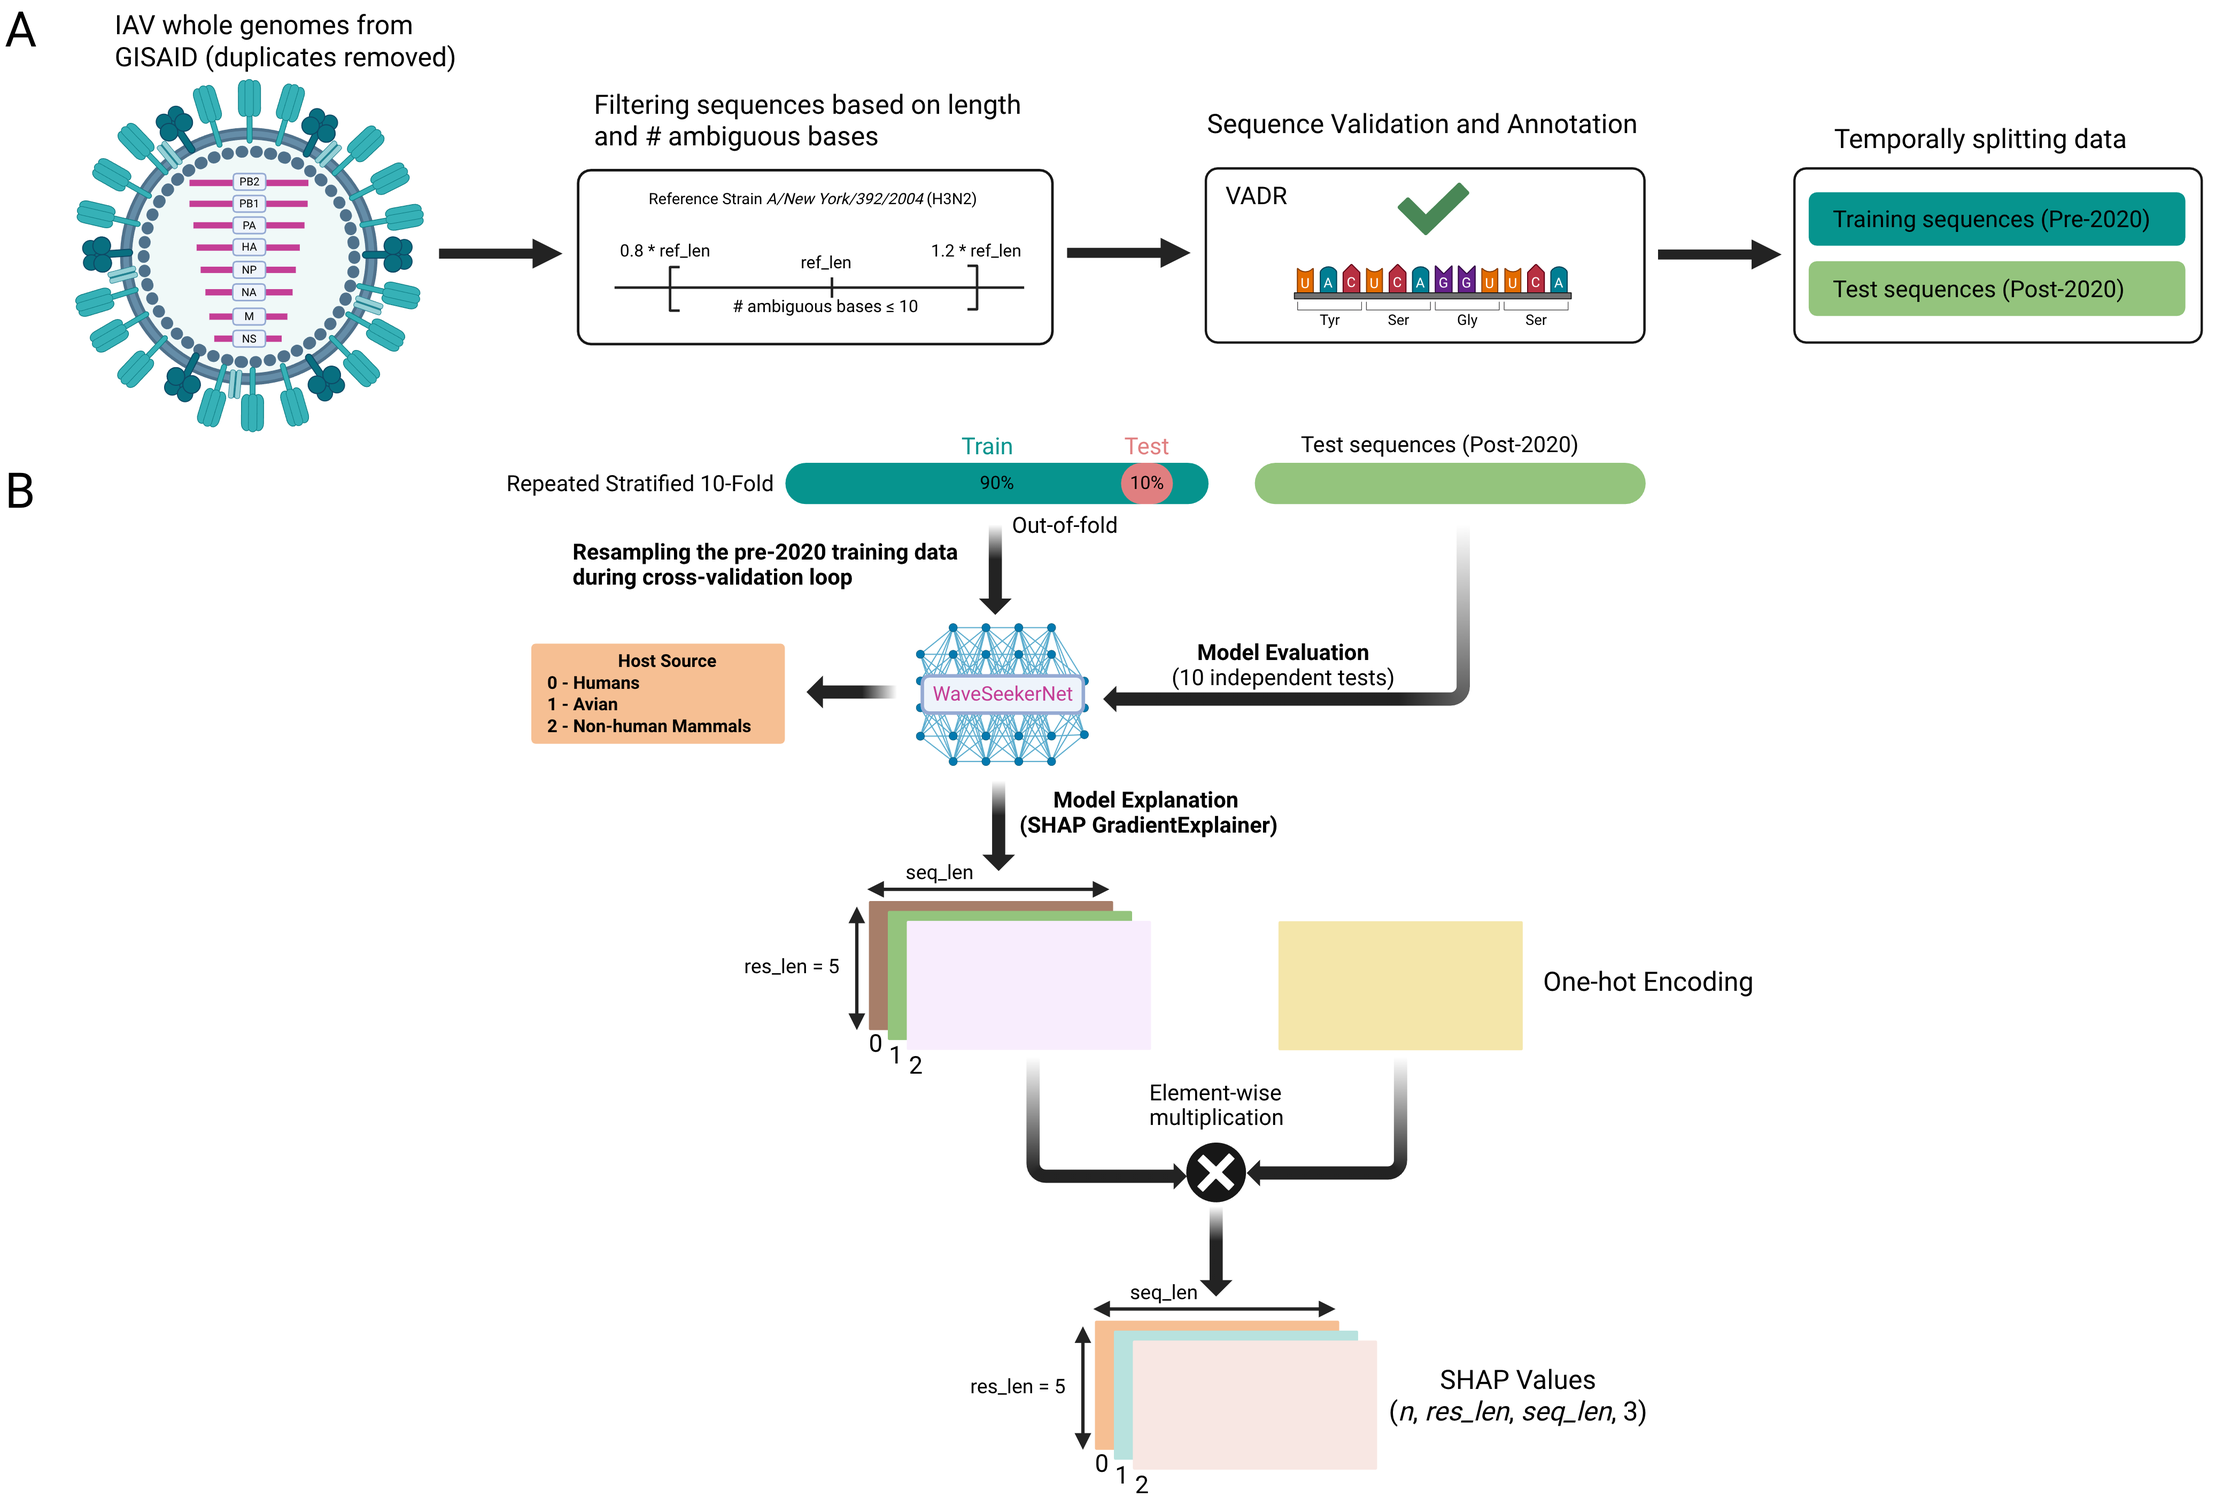
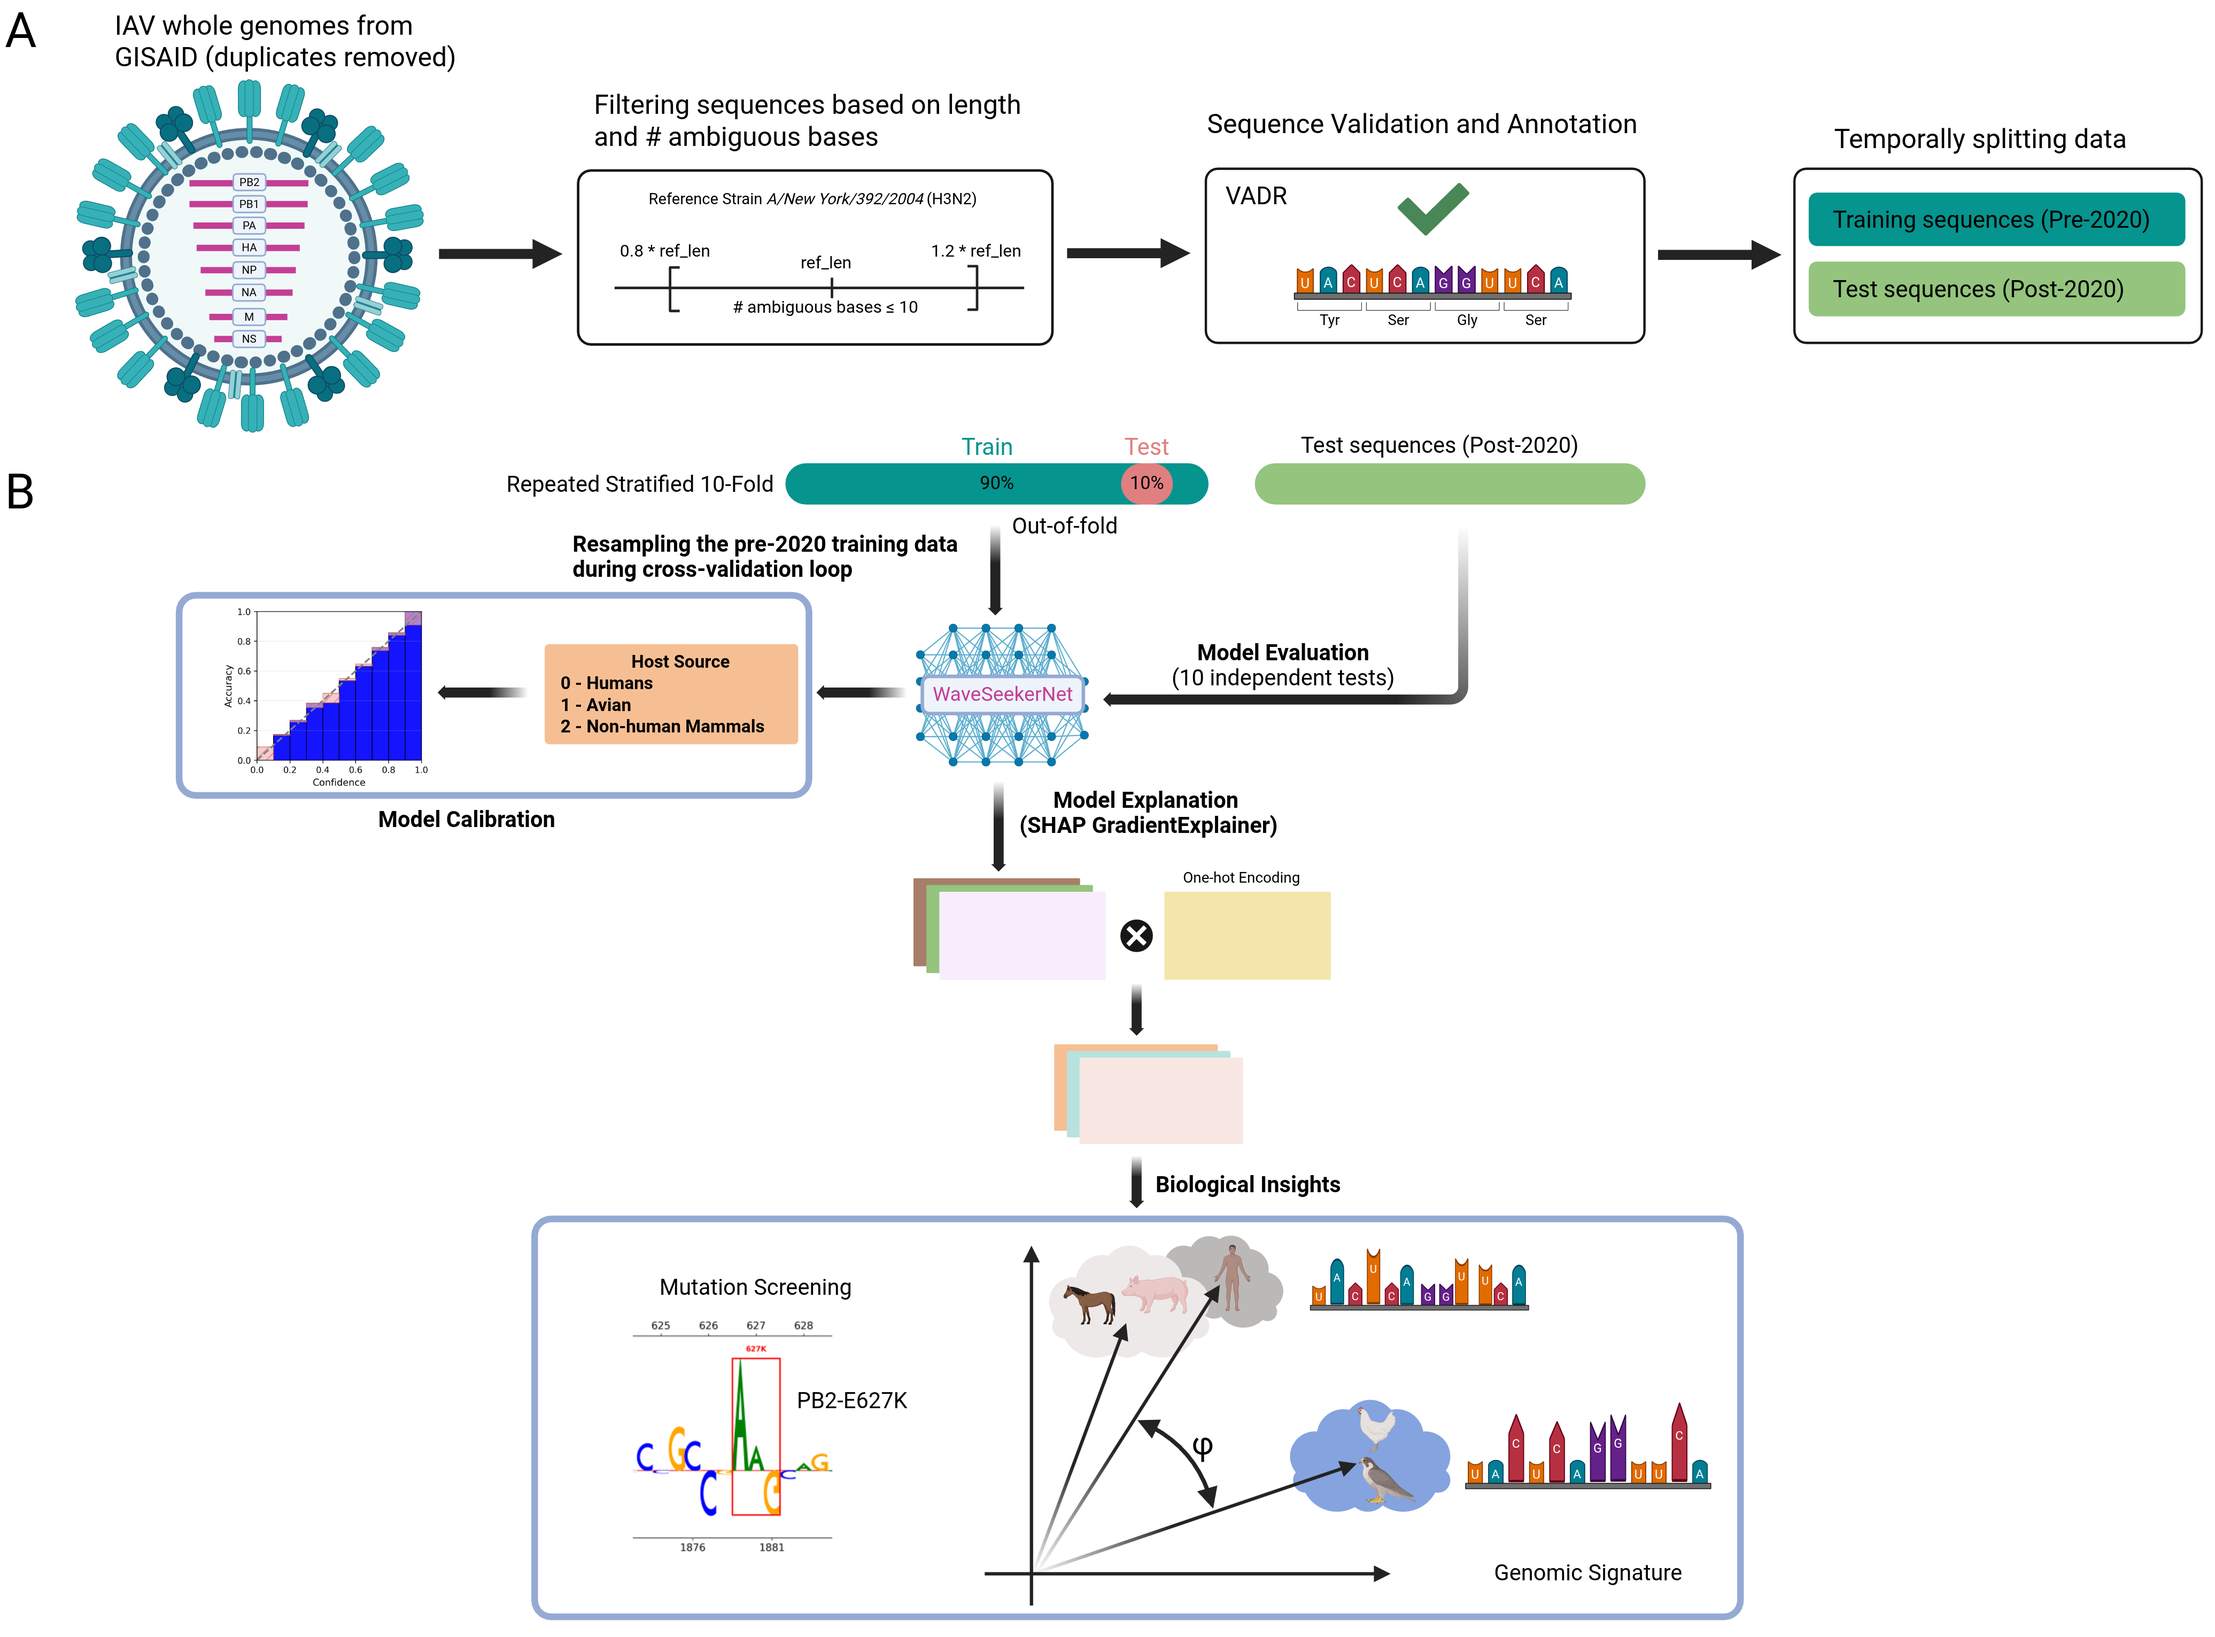
update more analyses code

diff --git a/README.md b/README.md
@@ -15,7 +15,7 @@ Our calibrated WaveSeekerNet model accurately predicted the host source of 8 IAV
 
 WaveSeekerNet elucidated IAV host-adaptation mechanisms in silico, providing insights into the underlying mechanisms of host adaptation and informing improved surveillance and intervention strategies.
 
-#### The preprint is available at https://www.biorxiv.org/content/10.64898/2026.05.23.726879v1
+#### The preprint is available at https://doi.org/10.64898/2026.05.23.726879
 ## Requirements
 1. Pytorch 2.4.1
 2. [Pytorch Wavelet package] 1.3.0
